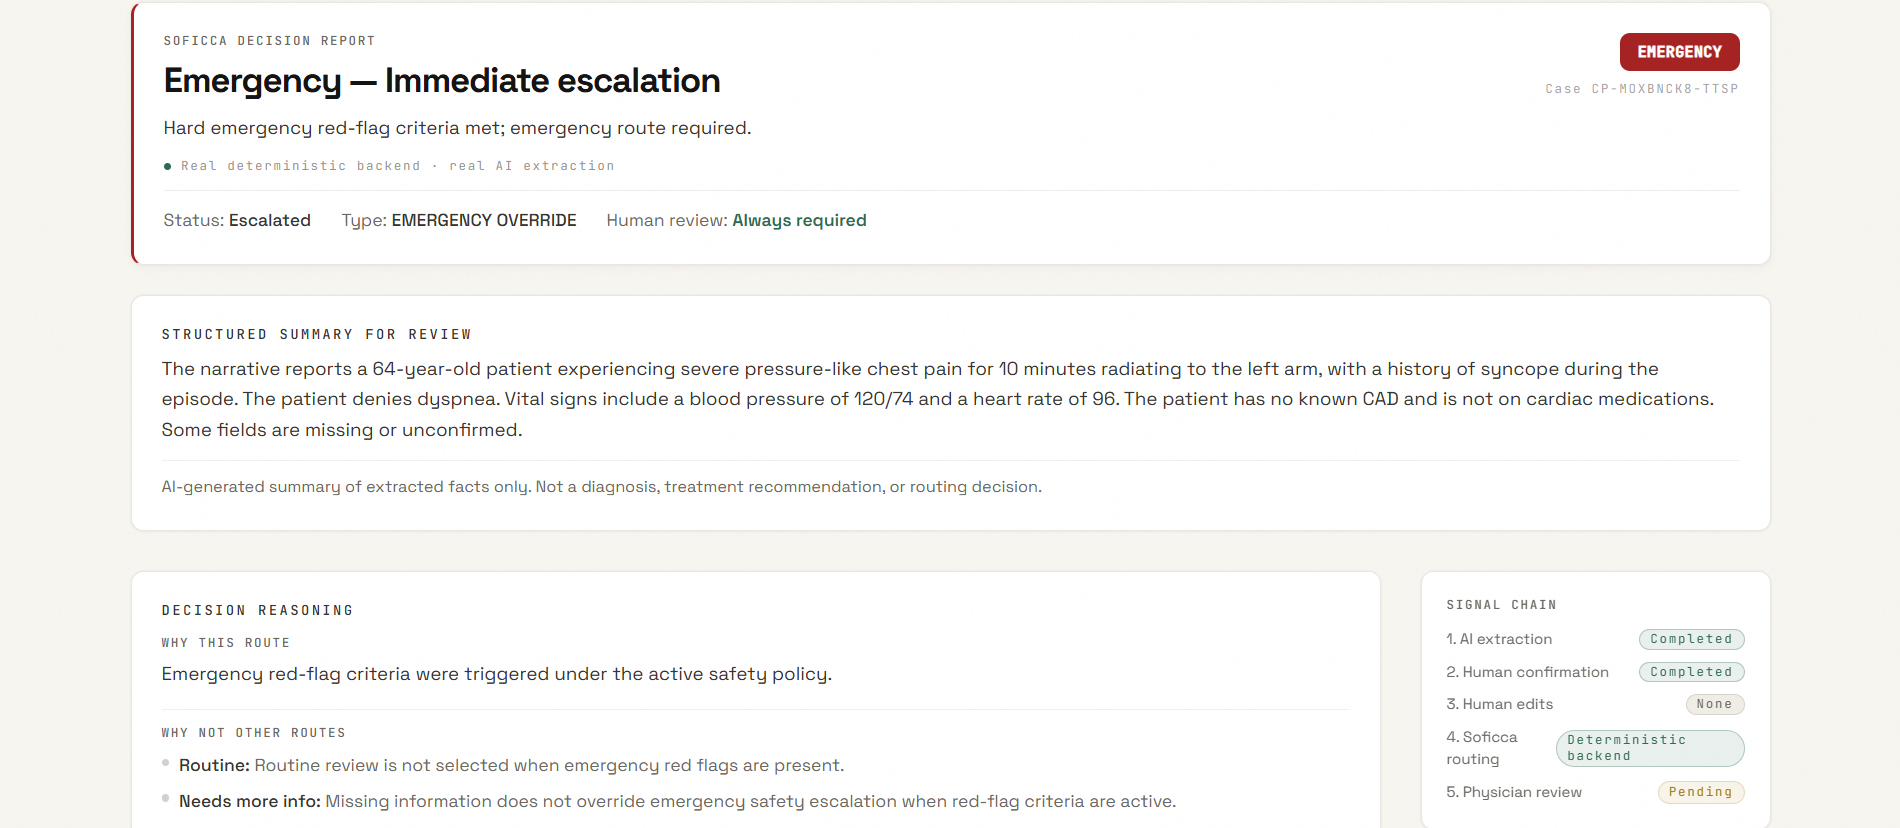
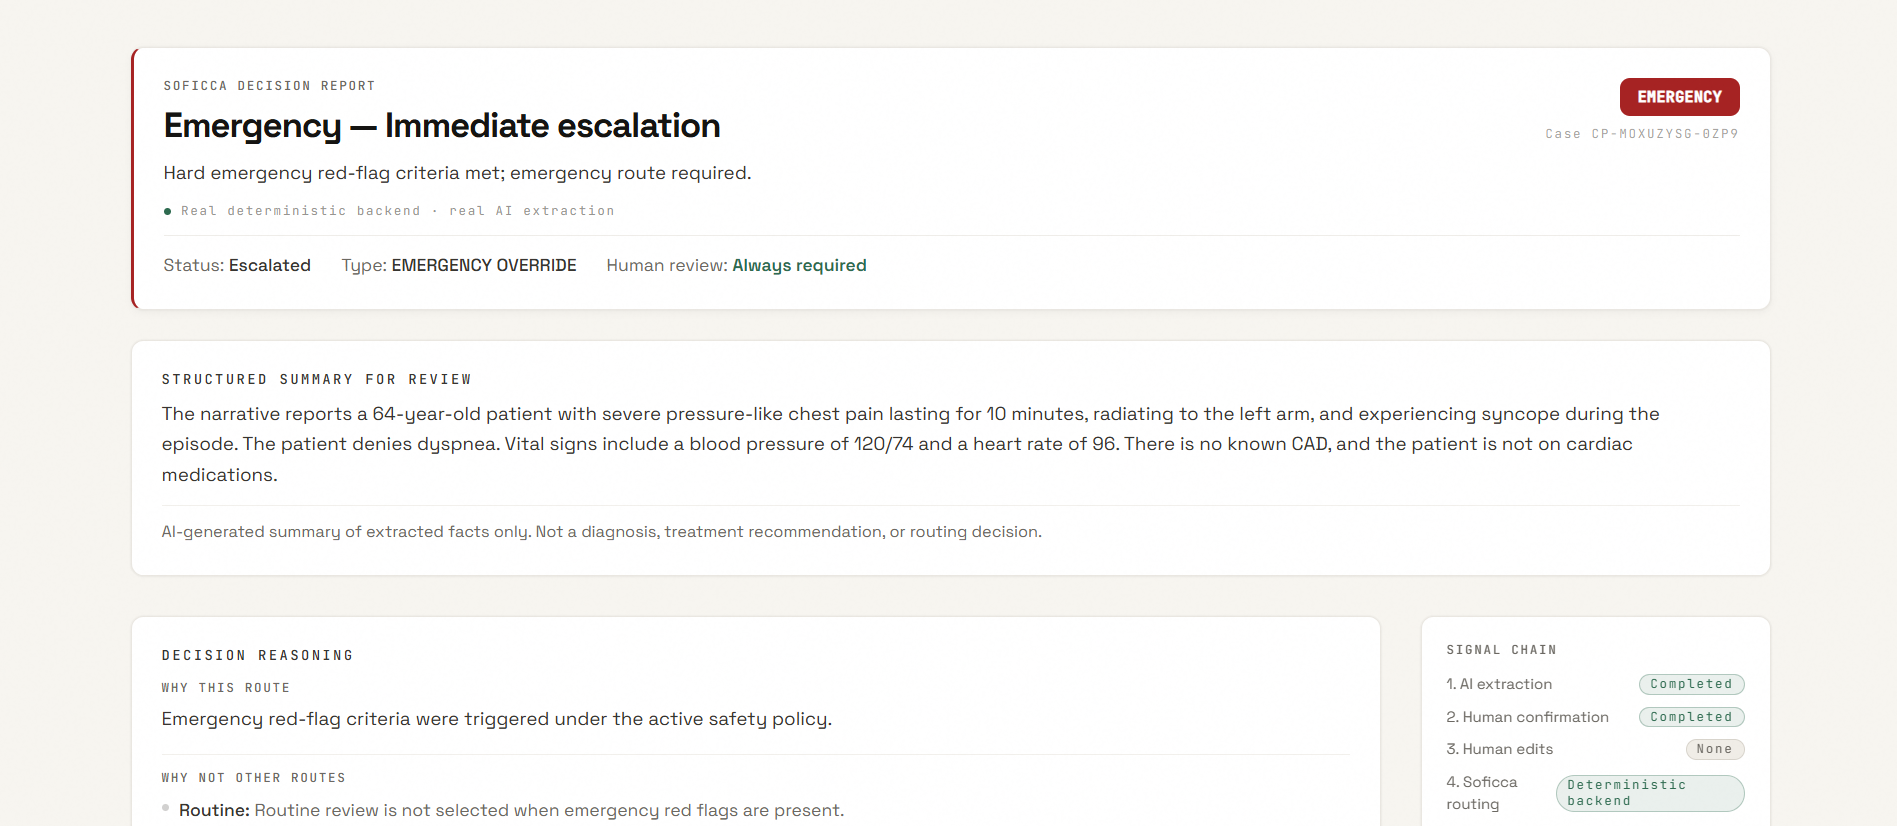
Update Soficca homepage with Cardio Pilot proof section

diff --git a/index.html b/index.html
@@ -1126,7 +1126,7 @@
     grid-template-columns: 7fr 5fr;
     gap: 72px;
     align-items: start;
-    margin-bottom: 12px;
+    margin-bottom: 20px;
   }
 
   .cardio-right {
@@ -1227,8 +1227,8 @@
 
   .cardio-artifact-row {
     margin-top: 0;
-    margin-left: -60px;
-    margin-right: -60px;
+    margin-left: -36px;
+    margin-right: -36px;
   }
 
   .cardio-stage {
@@ -1245,7 +1245,7 @@
     letter-spacing: 0.15em;
     color: var(--muted);
     font-family: 'JetBrains Mono', monospace;
-    margin-bottom: 0.6rem;
+    margin-bottom: 0.7rem;
     text-transform: uppercase;
   }
 
@@ -1253,8 +1253,8 @@
     display: block;
     max-width: 100%;
     margin: 0 auto;
-    border-radius: 12px;
-    border: 1px solid var(--rule-light);
+    border-radius: 10px;
+    border: 1px solid var(--rule);
     box-shadow:
       0 12px 48px rgba(0,0,0,0.08),
       0 4px 12px rgba(0,0,0,0.04),
@@ -1272,8 +1272,8 @@
     display: flex;
     justify-content: center;
     gap: 1.5rem;
-    margin: 0.5rem auto 0;
-    padding-top: 0.4rem;
+    margin: 0.6rem auto 0;
+    padding-top: 0.5rem;
   }
 
   .process-rail span {
